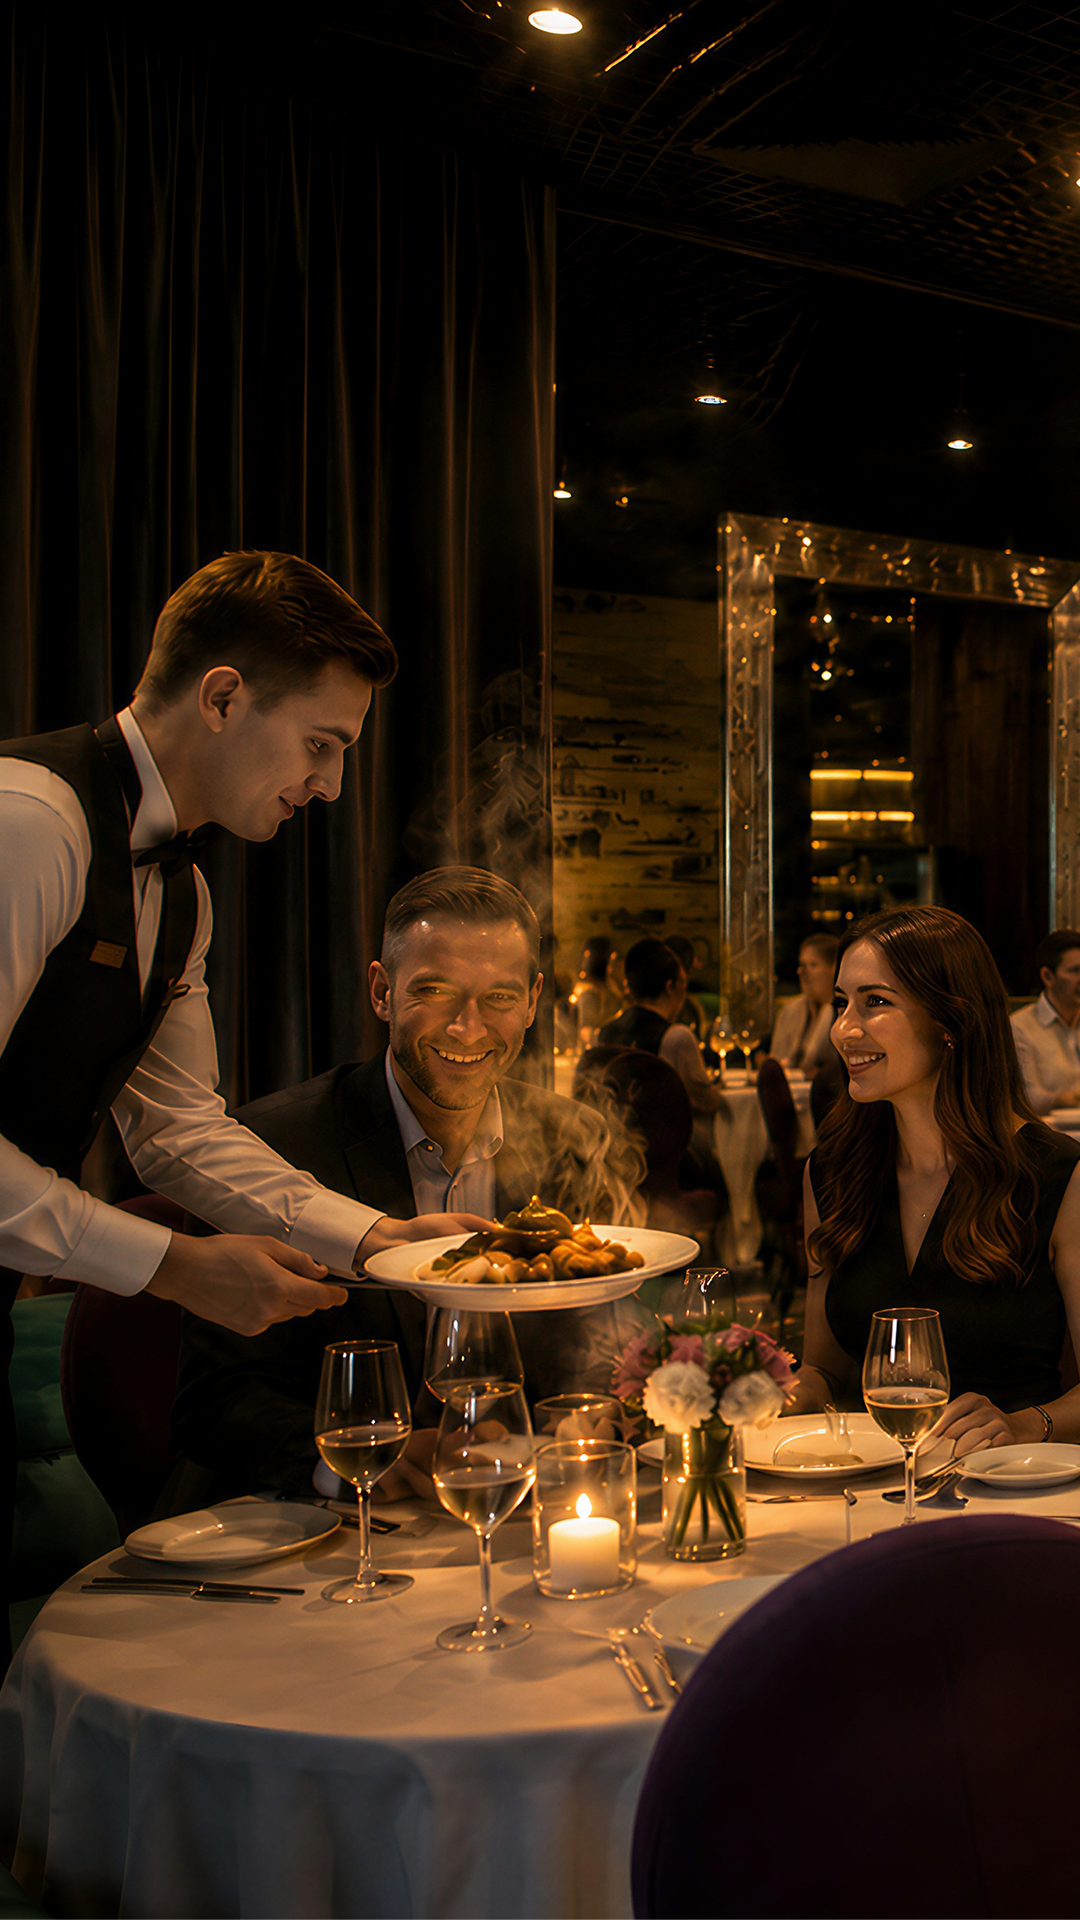
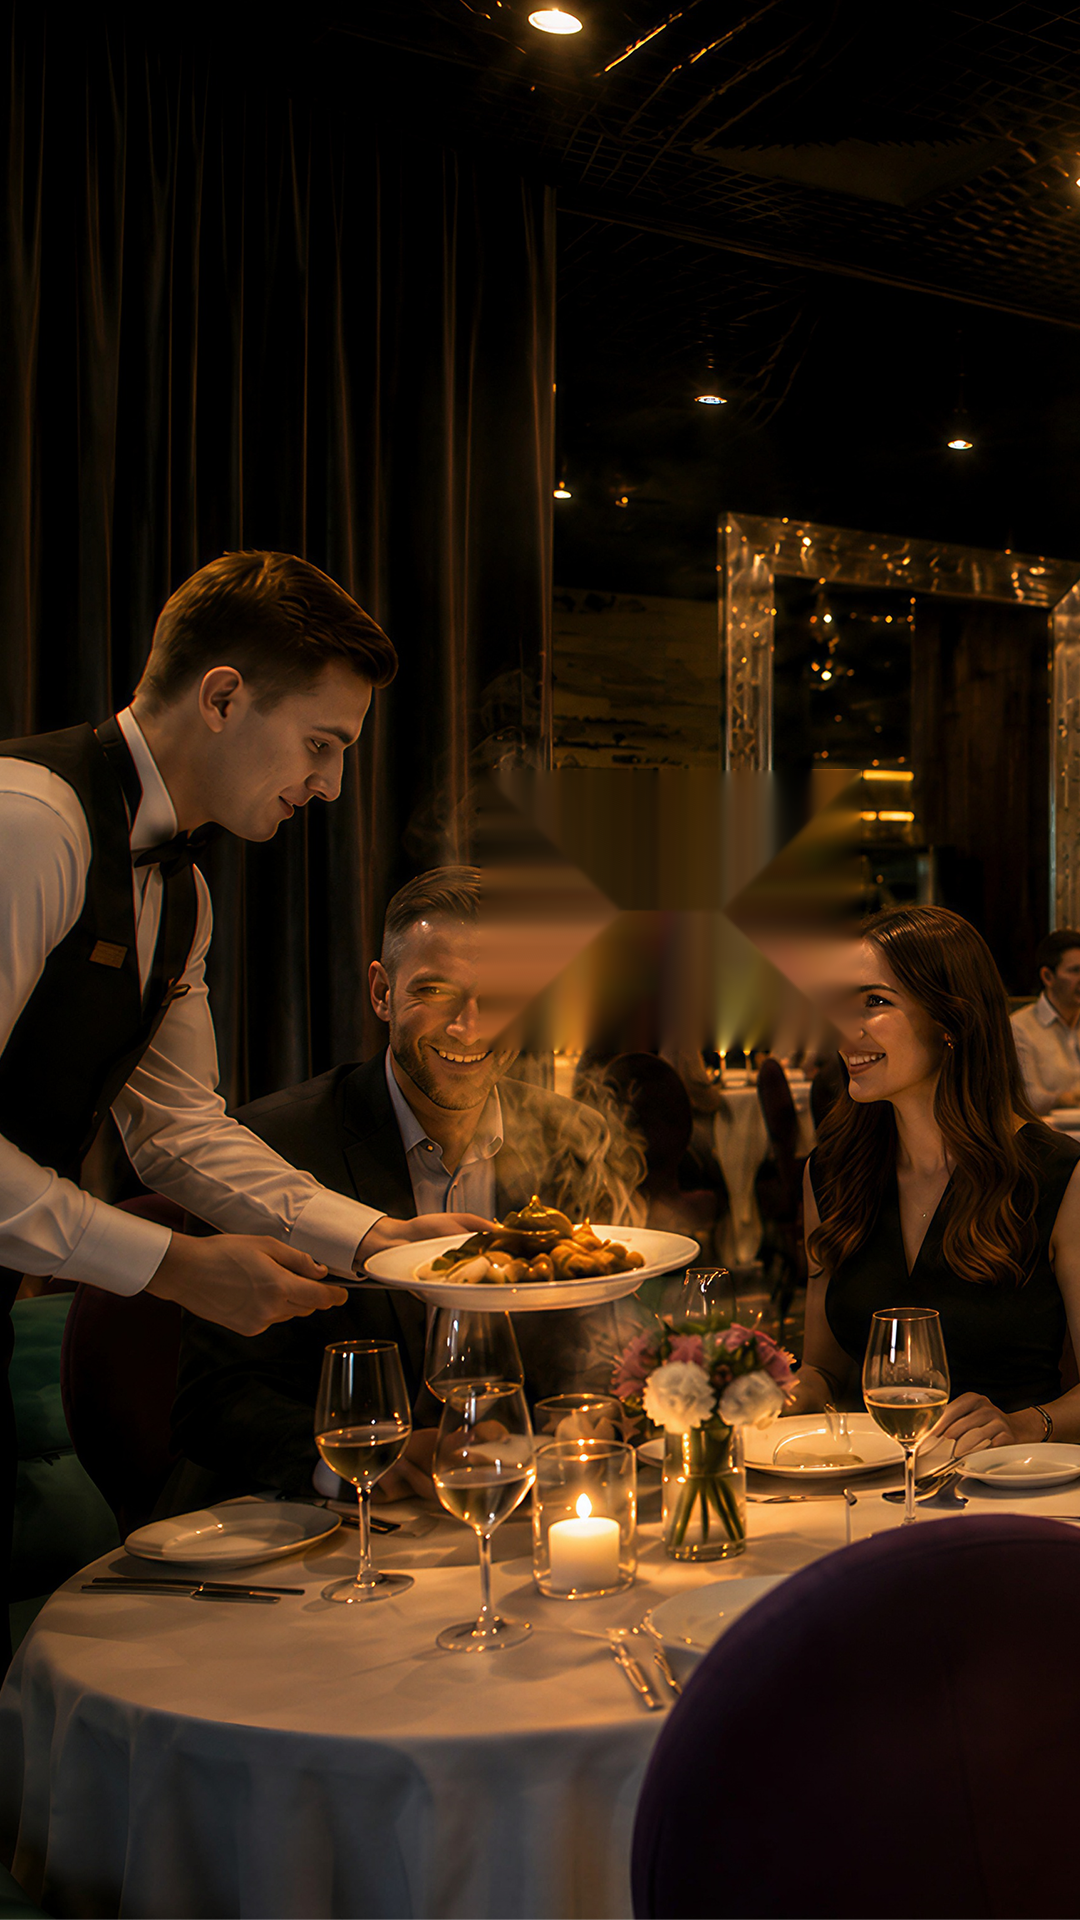
fix: remove wall inscription on restaurant background and bump asset cache version

Changed region(s): [[0.4278, 0.375, 0.7944, 0.5625]]

diff --git a/js/engine.js b/js/engine.js
@@ -10,8 +10,8 @@
   const TOTAL_SCREENS = 7;
   const SCREENS_CONFIG = {
     1: { name: 'Фасад', image: 'Photo_screens/1 - Hero.webp', isHero: true },
-    2: { name: 'Ресторан LenMar', image: 'Photo_screens/2 - Restaurant_new.webp?v=54' },
-    3: { name: 'SPA & Басейн', image: 'Photo_screens/3 - Spa.webp?v=54' },
+    2: { name: 'Ресторан LenMar', image: 'Photo_screens/2 - Restaurant_new.webp?v=65' },
+    3: { name: 'SPA & Басейн', image: 'Photo_screens/3 - Spa.webp?v=65' },
     4: { name: 'Конференц-зал', image: 'Photo_screens/4 - Hall.webp' },
     5: { name: 'Балкон & Одеса', image: 'Photo_screens/5 - Balcony.webp' },
     6: { name: 'Рецепція & Лоббі', image: 'Photo_screens/6 - Lobby.webp' },
